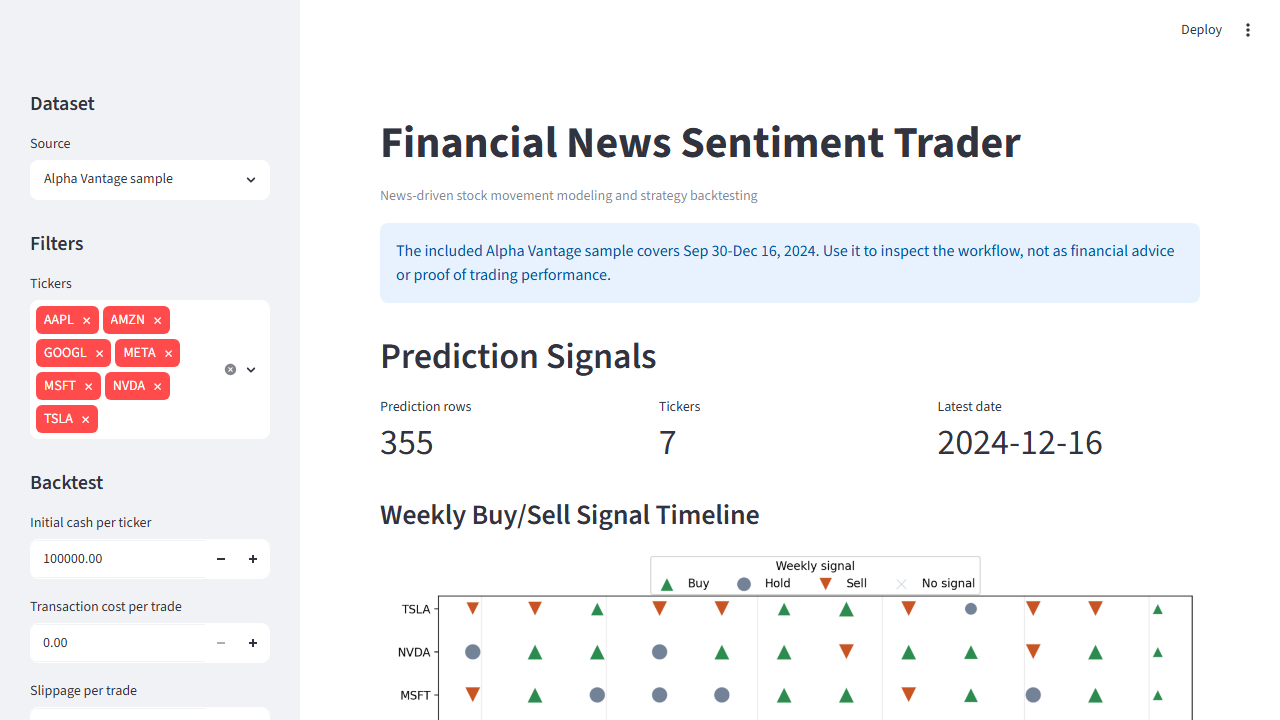
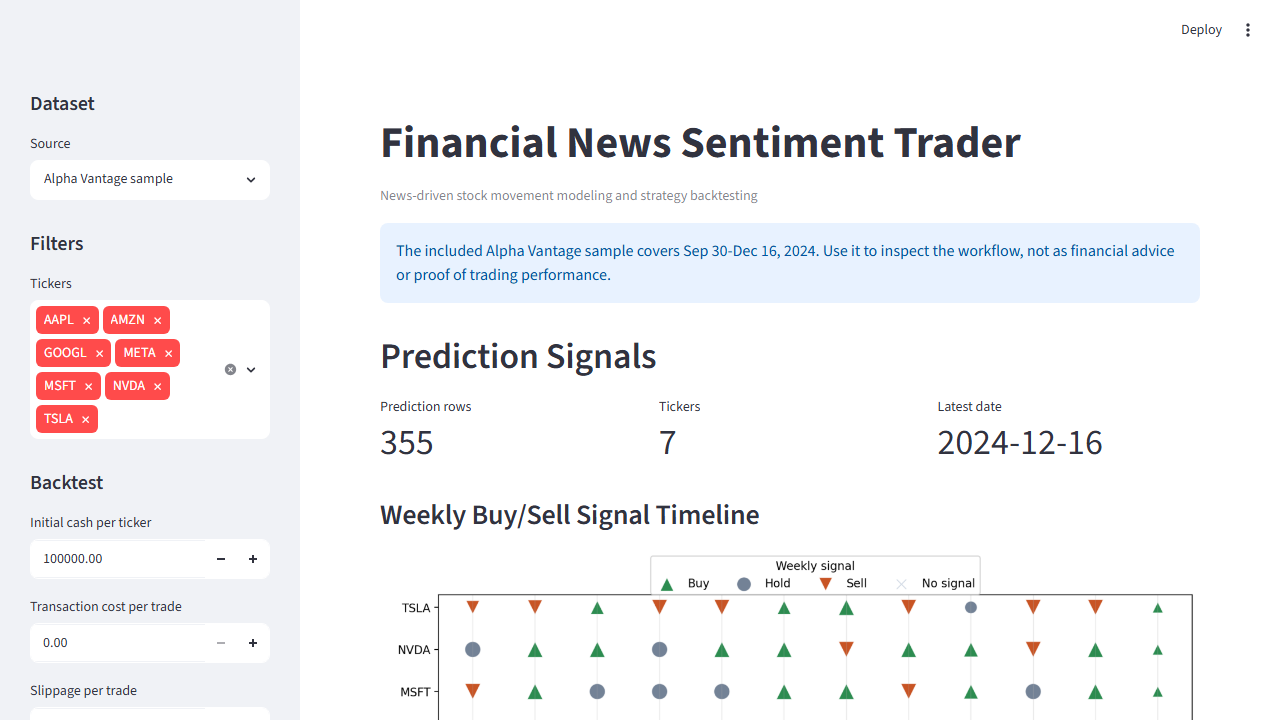
Show every weekly signal date

diff --git a/src/trading_sentiment/app.py b/src/trading_sentiment/app.py
@@ -115,10 +115,11 @@ def show_weekly_signal_timeline_chart(weekly_signals: pd.DataFrame) -> None:
     ax.set_yticklabels(tickers)
     ax.set_xlabel("Week of news")
     ax.set_ylabel("")
+    ax.set_xticks(sorted(rows["week_start"].unique()))
     ax.xaxis.set_major_formatter(mdates.DateFormatter("%b %d"))
     ax.grid(axis="x", alpha=0.25)
     ax.legend(title="Weekly signal", loc="upper center", ncols=4, bbox_to_anchor=(0.5, 1.16))
-    fig.autofmt_xdate(rotation=30, ha="right")
+    fig.autofmt_xdate(rotation=45, ha="right")
     fig.tight_layout()
     st.pyplot(fig, clear_figure=True)
 
